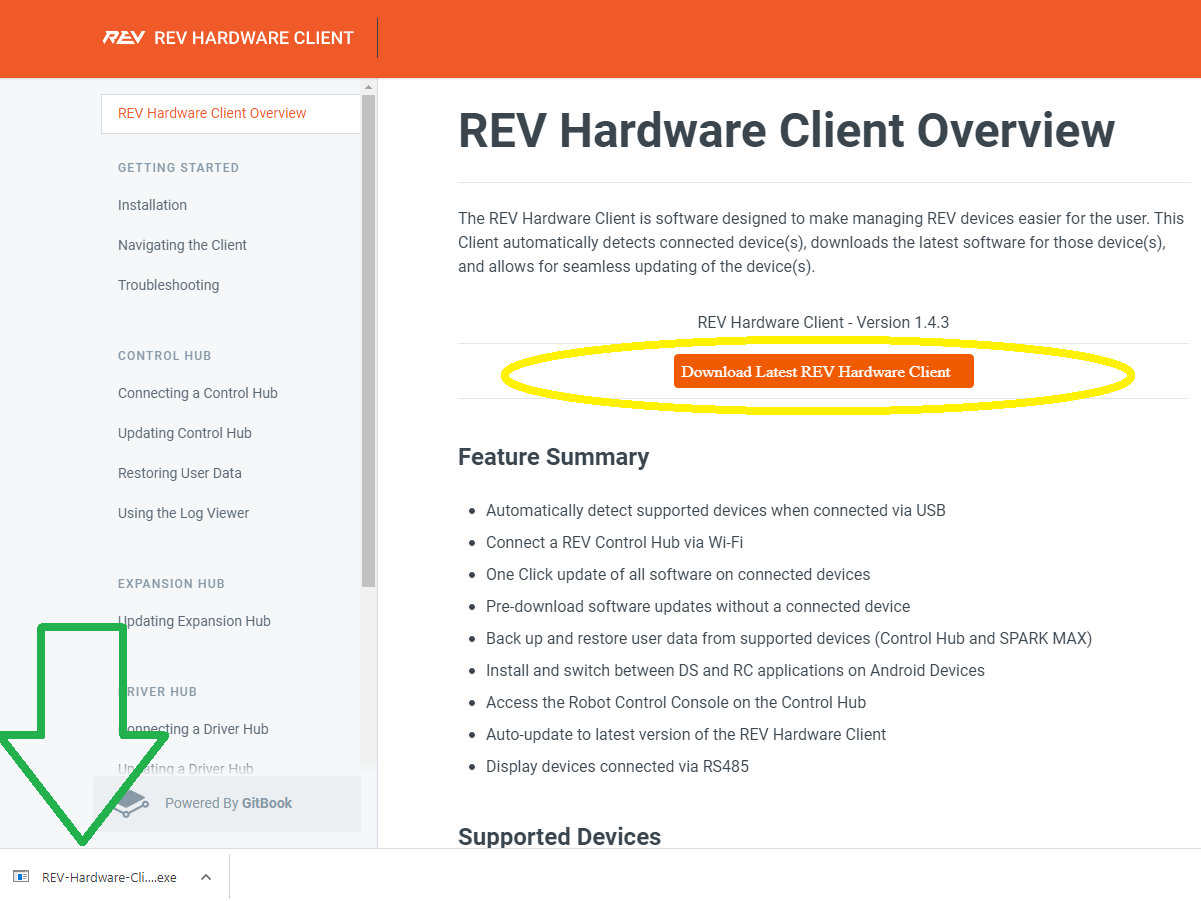
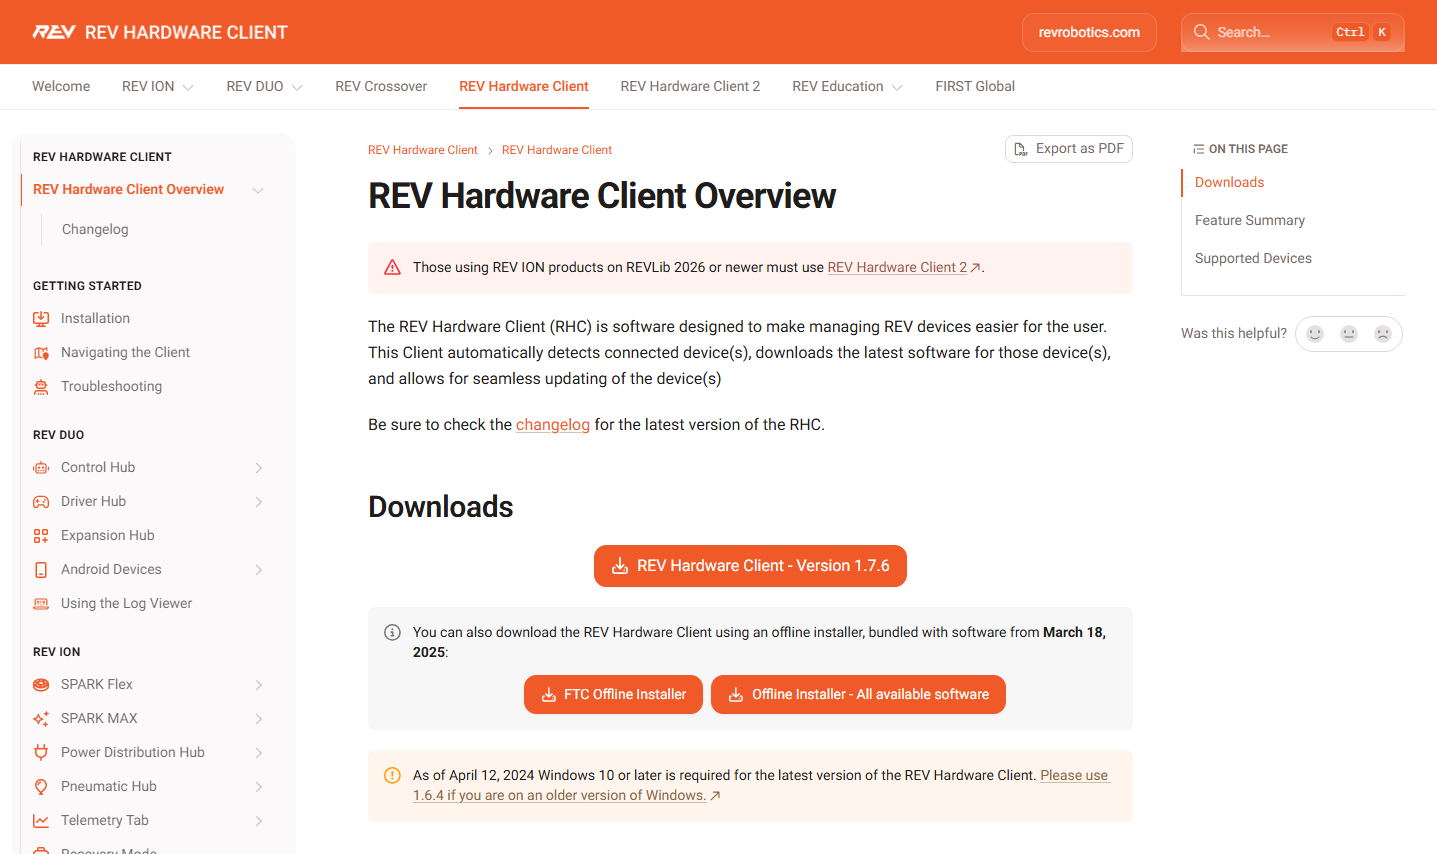
fix wording on index page, update the RHC page

diff --git a/docs/source/ftc_sdk/updating/index.rst b/docs/source/ftc_sdk/updating/index.rst
@@ -15,41 +15,17 @@ The Robot Controller App and the Driver Station App have an update schedule base
 The season Kickoff SDK Release each year will include new game specific assets such as 
 :doc:`AprilTags </apriltag/vision_portal/apriltag_intro/apriltag-intro>`. 
 
-It is recommended to use the 
-`REV Hardware Client <https://docs.revrobotics.com/rev-hardware-client/>`__
-to update devices if a Windows computer is available. 
-Alternate methods can be used to update devices, see the detailed 
-instructions linked to below.
-
 .. note::
    The most recent versions of FTC software have the
    latest bugfixes and updates. Teams are encouraged to update their
    software to the most recent version. FIELD STAFF at an FTC Event may not be able to
    provide comprehensive support to teams using older software.
 
-The following table lists the most recent and recommended firmware and operating
-system (OS) versions for each core control system module.
-
-.. list-table:: Recommended Versions
-   :widths: 50 50
-   :header-rows: 1
-   
-   * - Device
-     - Software Version
-   * - REV Control Hub
-     - Hub Firmware 1.8.2 and Control Hub OS 1.1.2
-   * - REV Driver Hub
-     - Driver Hub OS 1.2.0
-   * - REV Expansion Hub
-     - Hub Firmware 1.8.2
-   * - REV Servo Hub
-     - REV Servo Hub Firmware 25.0.2
-
 A **Robot Controller** should be using the most recent Robot Controller App.
 At the start of a new FTC season this should be the Kickoff SDK Release
 which normally comes out a few weeks after kickoff.
 
-A **Driver Station** should be using the most recent Driver Station App, 
+A **Driver Station** should be using the most recent Driver Station App.
 
 Regardless of the App versions selected, it is highly recommended that the installed
 Robot Controller App and Driver Station App versions match major and minor values
@@ -77,6 +53,14 @@ Please see the Competition Manual for permitted devices and the procedure for re
 Update Instructions
 -------------------
 
+.. tip::
+   It is recommended to use the 
+   `REV Hardware Client <https://docs.revrobotics.com/rev-hardware-client/>`__
+   to update devices if a Windows computer is available. 
+   The REV Hardware Client is able to update all control system device software.
+   Alternate methods can be used to update devices, see the detailed 
+   instructions linked to below.
+
 .. toctree::
     :maxdepth: 1
     
@@ -86,7 +70,30 @@ Update Instructions
     Updating Driver Hub OS <driverhub_os/Updating-the-Driver-Hub-OS>
     Updating Control Hub OS <controlhub_os/Updating-the-Control-Hub-OS>
     Updating Hub Firmware <hub_firmware/Updating-Hub-Firmware>
-    
-The REV Servo Hub (REV-11-1855) also has firmware that can be 
+
+The REV Servo Hub (REV-11-1855) has firmware that can be 
 `updated <https://docs.revrobotics.com/rev-hardware-client/crossover/servo-hub#update-tab>`__
 using the REV Hardware Client. Instructions at the REV website.
+
+For those teams not using the REV Hardware Cient the following table has links
+to the Change Log or Release Notes for each component that can be used to determine the current version.
+Then use the alternate update methods mentioned in the instructions in the above links.
+
+.. list-table:: Component Changes
+   :widths: 50 50
+   :header-rows: 1
+   
+   * - Device
+     - Change Log or Release Notes
+   * - REV Control Hub
+     - `Hub Firmware <https://docs.revrobotics.com/duo-control/managing-the-control-system/updating-firmware/firmware-changelog>`__ 
+       and `Control Hub OS <https://docs.revrobotics.com/duo-control/managing-the-control-system/updating-operating-system/operating-system-changelog>`__
+       and `Robot Controller App <https://github.com/FIRST-Tech-Challenge/FtcRobotController/releases>`__
+   * - REV Driver Hub
+     - `Driver Hub OS <https://software-metadata.revrobotics.com/releasenotes/driverhubos/#driver-hub-os-release-notes>`__
+       and `Driver Station App <https://github.com/FIRST-Tech-Challenge/FtcRobotController/releases>`__
+   * - REV Expansion Hub
+     - `Hub Firmware <https://docs.revrobotics.com/duo-control/managing-the-control-system/updating-firmware/firmware-changelog>`__
+   * - REV Servo Hub
+     - `REV Servo Hub Firmware <https://docs.revrobotics.com/rev-crossover-products/servo/servo-hub/servo-hub-firmware-changelog>`__
+

diff --git a/docs/source/ftc_sdk/updating/hardware_client/Updating-REV-Hardware-Client.rst b/docs/source/ftc_sdk/updating/hardware_client/Updating-REV-Hardware-Client.rst
@@ -1,7 +1,7 @@
 Installing and Updating the REV Hardware Client
 ===============================================
 
-The REV Hardware Client is a desktop app, or software tool, that simplifies
+The REV Hardware Client (RHC) is a desktop app, or software tool, that simplifies
 updating software on devices used in *FIRST* Tech Challenge. Unfortunately the
 REV Hardware Client is currently Windows-only, Apple/Mac users must use
 alternate methods of updating software. In this tutorial, some steps ask to
@@ -9,7 +9,7 @@ download software and updates - doing this is not required, but will save time
 during updates. 
 
 To install, use the following steps on a **64-bit** PC or laptop running
-Windows 7 or newer.
+Windows 10 or newer.
 
 **Apple/Mac users should skip these steps.**
 
@@ -22,8 +22,8 @@ Installing the RHC
 
 1. Connect the computer to the internet, and download RHC
    `from the REV RHC download page <https://docs.revrobotics.com/rev-hardware-client/>`__. Just
-   click the orange Download button and choose your computer’s Downloads
-   folder to store the file.
+   click the orange REV Hardware Client button and choose your computer’s Downloads
+   folder to store the file (if that is an option your browser supports).
 
    .. figure:: images/010-download.png
       :alt: Downloading REV Hardware Client
@@ -34,27 +34,29 @@ Installing the RHC
 
    |
 
-2. See the downloaded file shown at lower left (green arrow). Click that
+2. The file is likely named **REV-Hardware-Client-Setup.exe** with a version number.
+   Your browser may allow you to run that program after it is downloaded. If needed, 
+   find that file in your browser's downloads folder. Click that
    filename to begin installing the RHC app; then follow the prompts.
    When that’s complete, the RHC icon will appear on your computer’s
    desktop.
-
-   If the computer is **not** 64-bit, RHC installation will fail with an
-   appropriate error message.
 
 Downloading Initial Updates
 ---------------------------
 
 Open the RHC app. This is a good time to **pre-download** various
 pieces of software you might need soon.
+These are the firmware, operating system and App filess that the RHC
+can install on your devices.
 
 Why download now? Later, this computer might be connected via Wi-Fi to a
 Robot Controller, not to the internet. Or a good internet connection
 might not be available when urgently needed (Murphy’s Law).
 
 Click on the Downloads tab (top left). Under “Available Files” is a list
-of software for *FIRST* Tech Challenge and other software for a different program called
-*FIRST* Robotics Competition.
+of software for *FIRST* Tech Challenge.
+You can ignore the Pneumatic Hub Firmware, the Power Distribution Firmware,
+and the SPARK MAX Firmware as these are for the *FIRST* Robotics Competition program.
 
 .. figure:: images/020-RHC-available-files.png
    :alt: Available Files
